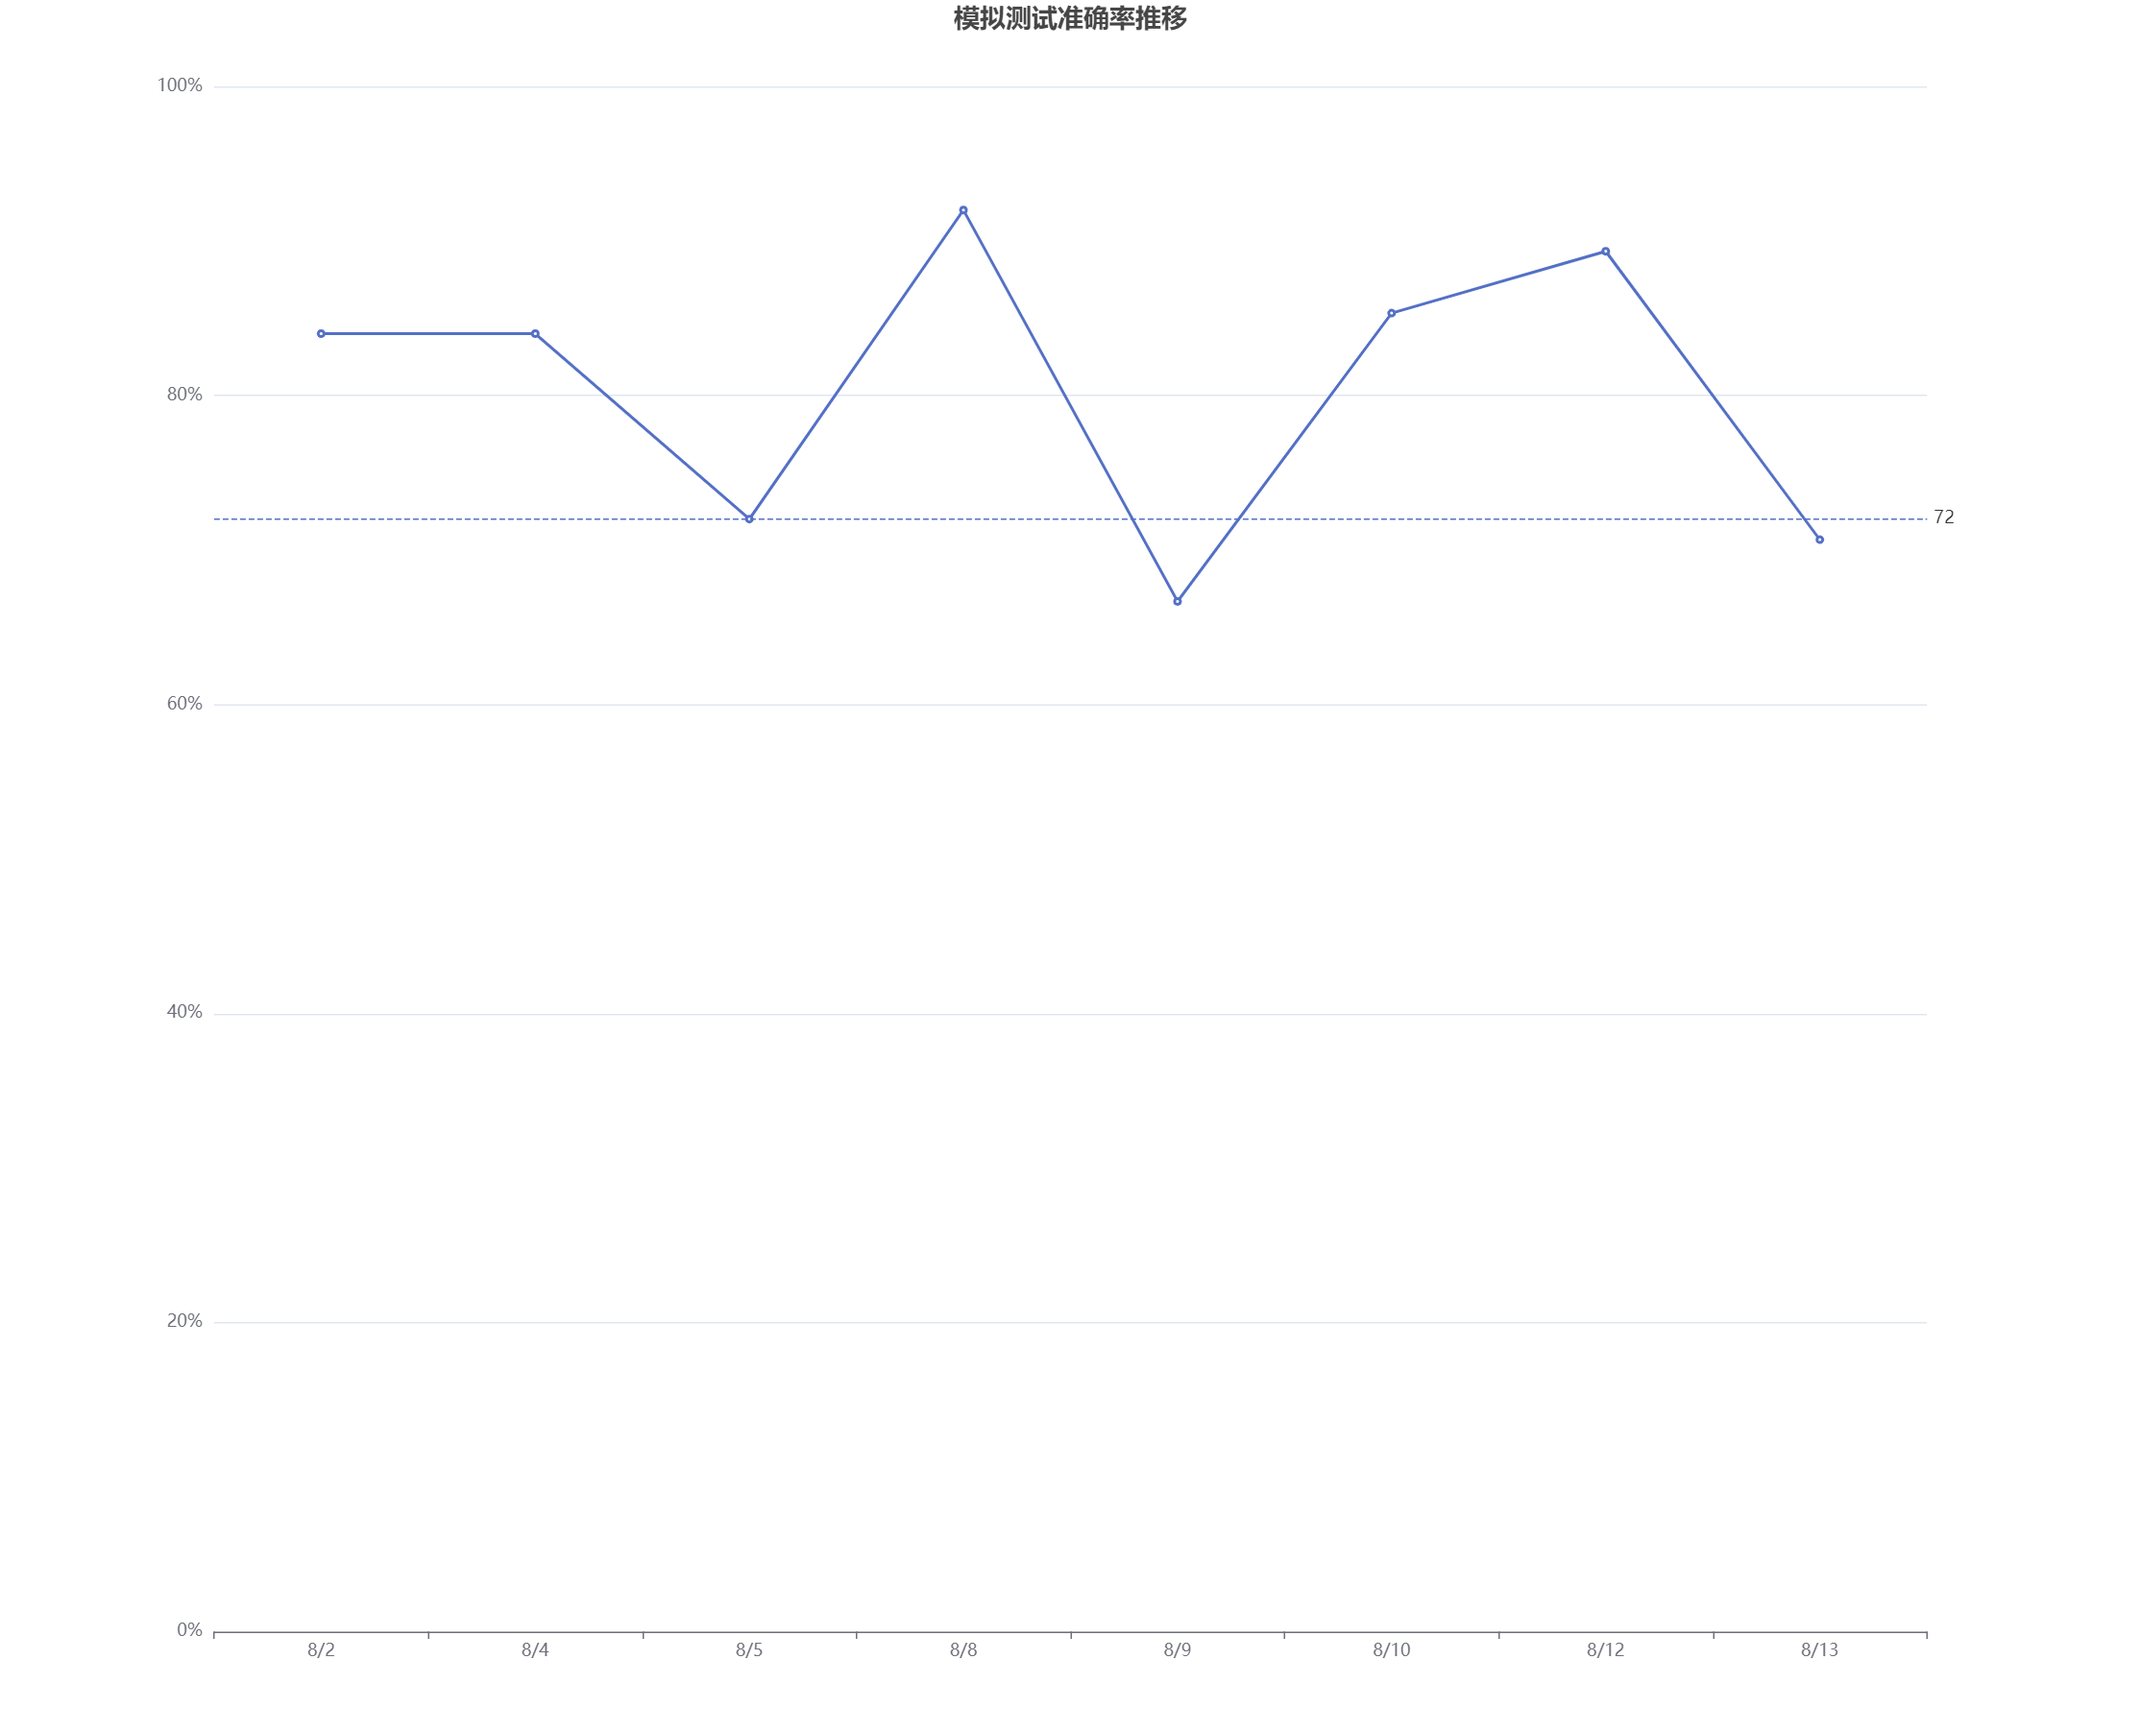
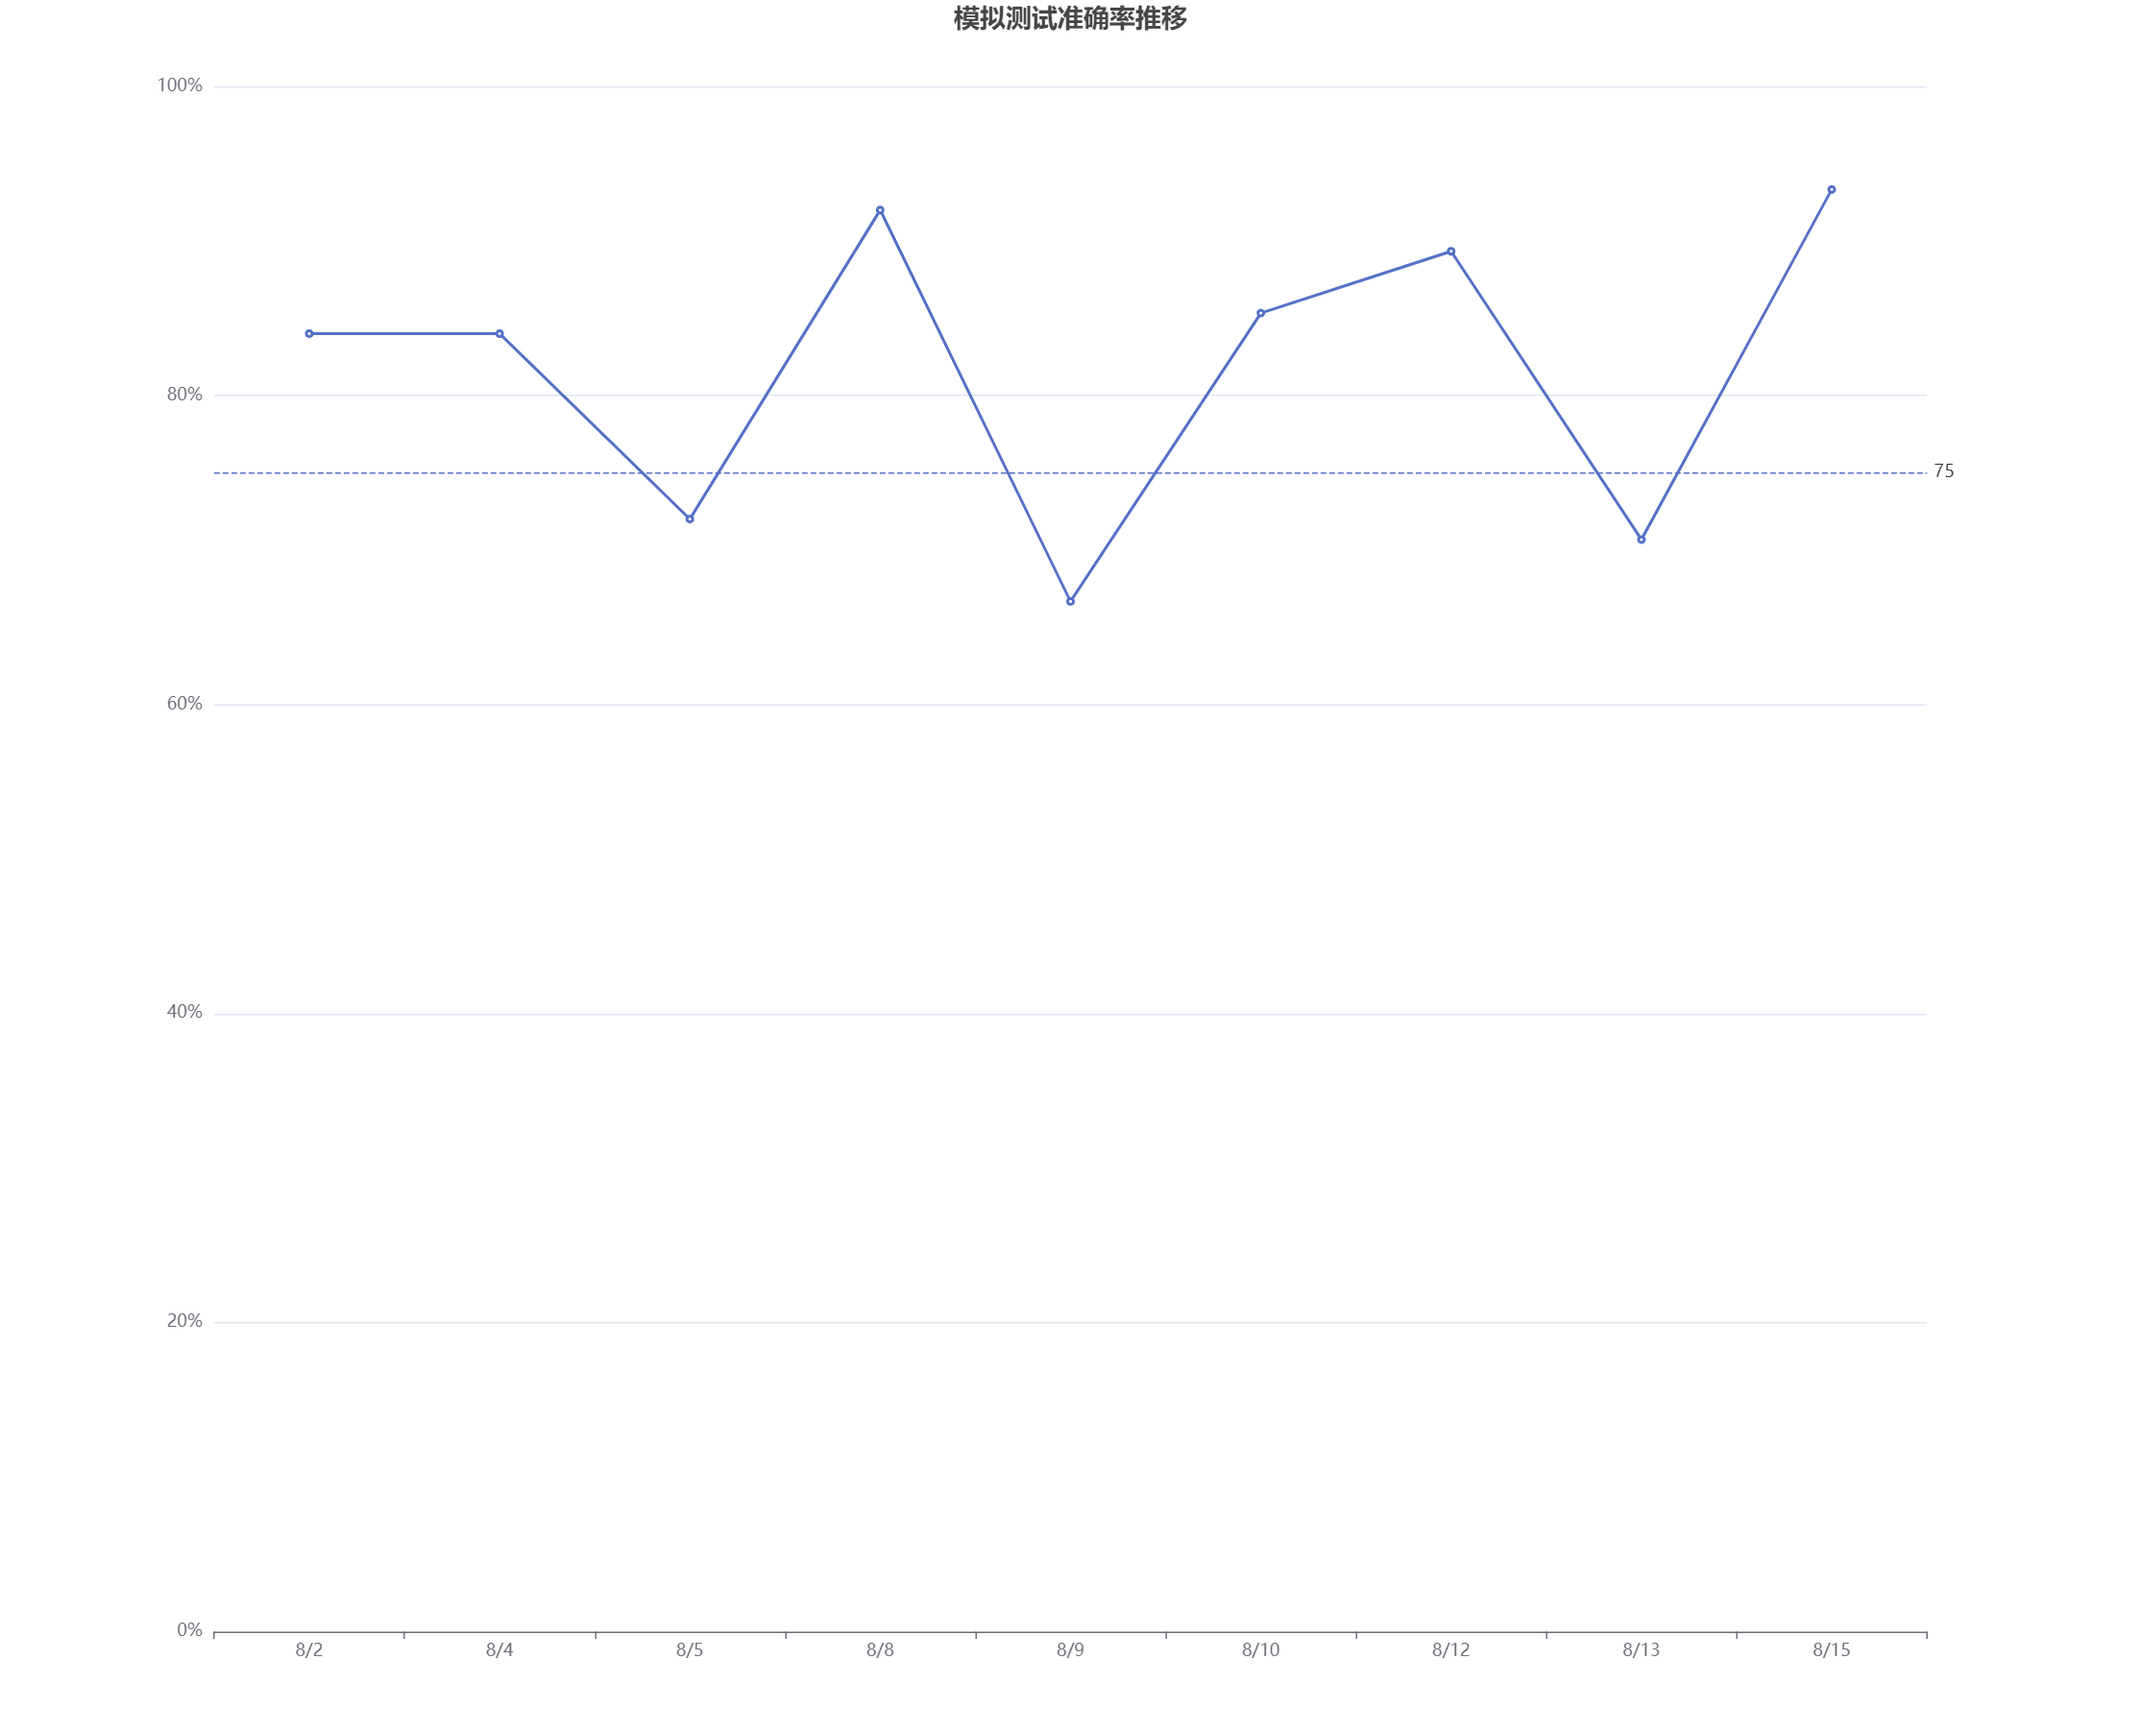
[update] daily test

diff --git a/src/dailyPractice.js b/src/dailyPractice.js
@@ -5,7 +5,7 @@ option = {
   },
   xAxis: {
     type: "category",
-    data: ["8/2", "8/4", "8/5", "8/8", "8/9", "8/10", "8/12", "8/13"],
+    data: ["8/2", "8/4", "8/5", "8/8", "8/9", "8/10", "8/12", "8/13", "8/15"],
   },
   yAxis: {
     type: "value",
@@ -15,7 +15,7 @@ option = {
   },
   series: [
     {
-      data: [84, 84, 72, 92, 66.67, 85.33, 89.33, 70.67],
+      data: [84, 84, 72, 92, 66.67, 85.33, 89.33, 70.67, 93.33],
       type: "line",
       markLine: {
         symbol: ["none", "none"],

diff --git a/src/testReview.js b/src/testReview.js
@@ -189,14 +189,16 @@ option = {
         ["252", 1],
         ["257", 1],
         ["260", 1],
+        ["266", 1],
         ["267", 1],
         ["270", 1],
         ["271", 1],
         ["275", 1],
-        ["281", 1],
-        ["283", 1],
+        ["281", 2],
+        ["282", 1],
+        ["283", 2],
         ["290", 1],
-        ["293", 1],
+        ["293", 2],
         ["295", 1],
         ["296", 1],
         ["297", 1],

diff --git a/README.md b/README.md
@@ -40,6 +40,11 @@
 - 226, 232, 243, 244, 247, 249, 252, 257, 260, 267, 270, 271, 275, 281, 283, 290, 293, 295, 296, 297, 298, 299
 - 正确率70.67%
 
+## 2021年8月15日测试错题
+
+- 266, 281, 282, 283, 293
+- 正确率93.33%
+
 ## 图表
 
 ![01](./img/testReview1.png)
